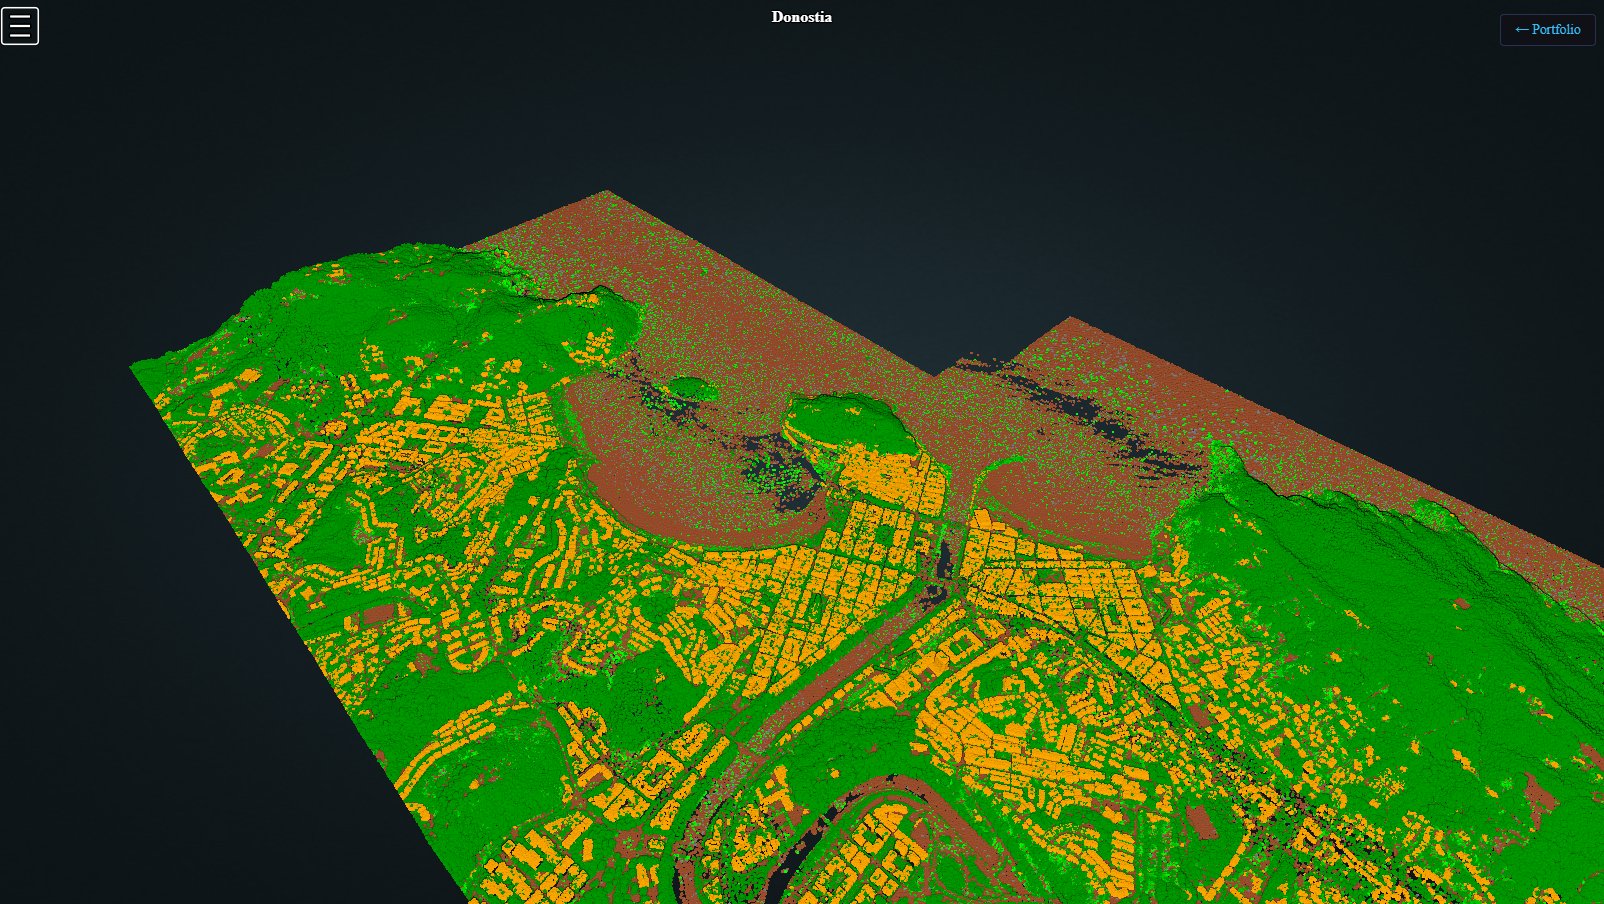
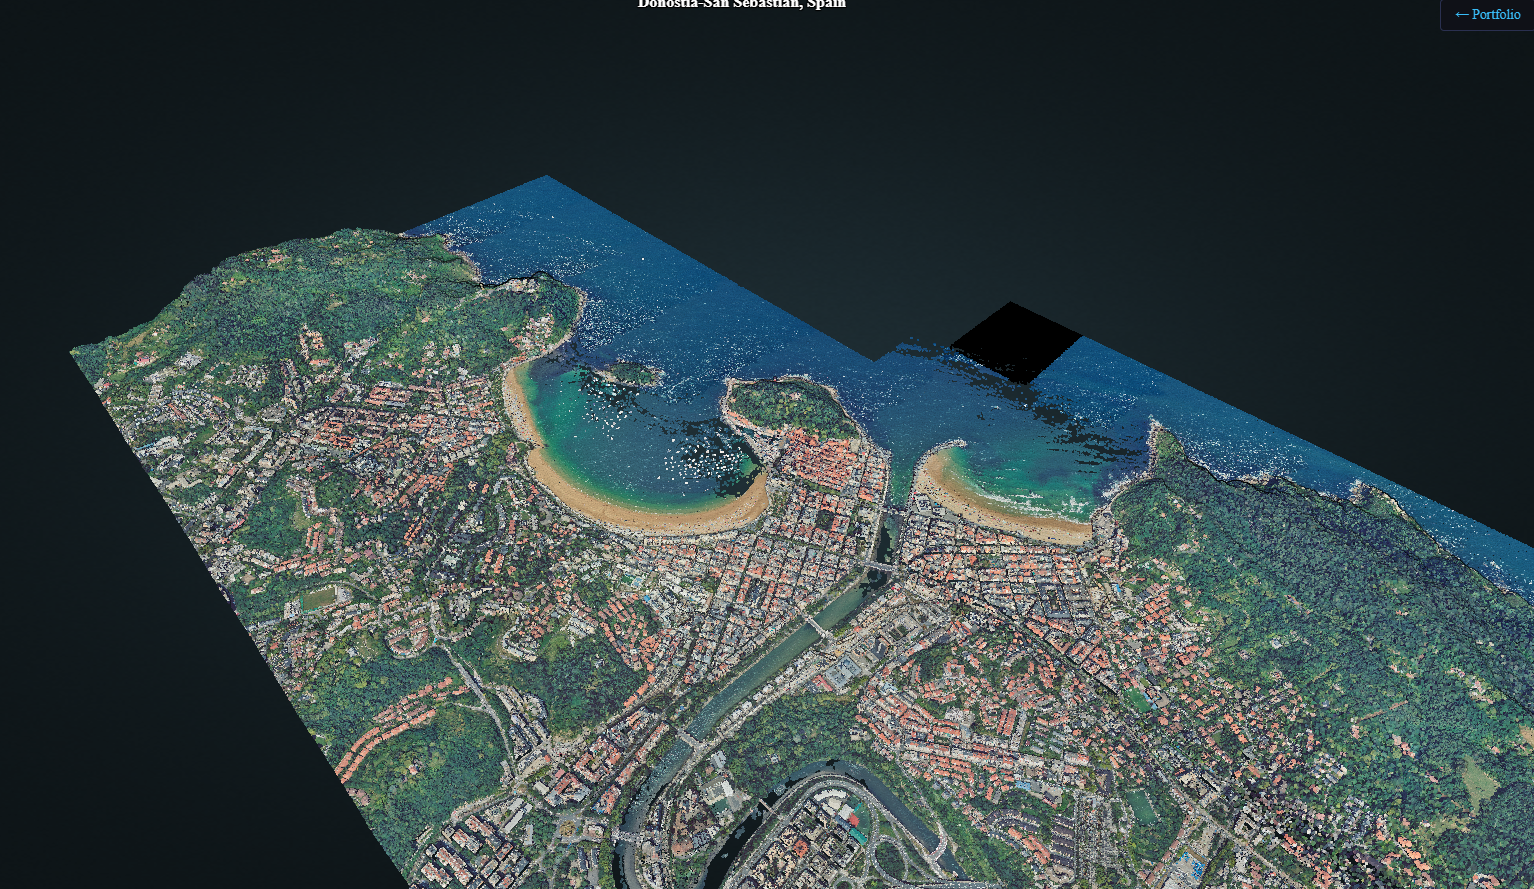
update donostia to rgba

diff --git a/pointclouds/donostia/index.html b/pointclouds/donostia/index.html
@@ -79,7 +79,8 @@
       mat.size = 1;
       mat.pointSizeType = Potree.PointSizeType.ADAPTIVE;
       mat.shape = Potree.PointShape.CIRCLE;
-      mat.activeAttributeName = "classification";
+      mat.activeAttributeName = "rgba";
+
 
       const scheme = JSON.parse(JSON.stringify(Potree.ClassificationScheme.DEFAULT));
       scheme[7].visible = false;
